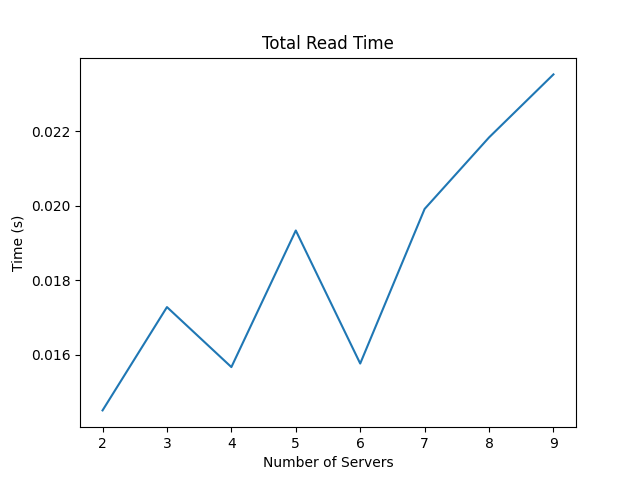
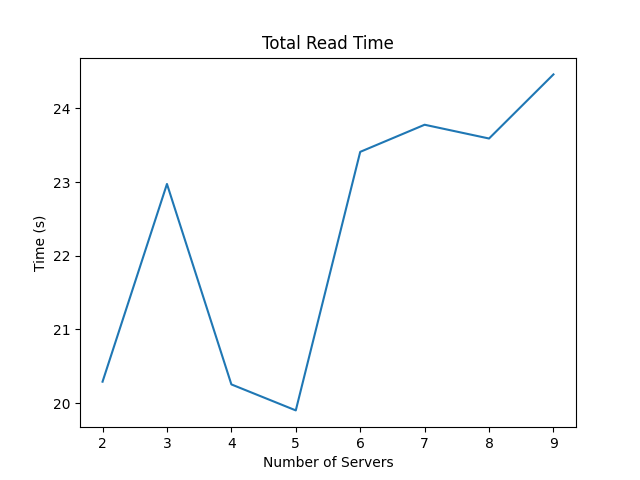
final commit

diff --git a/Assignment-2/Task-3/analysis.py b/Assignment-2/Task-3/analysis.py
@@ -25,7 +25,7 @@ def plot_line_chart(x_values, y_values, x_label, y_label, title, path):
 
 
 def launch_rw_requests():
-    shuffled_endpoints = ["/read"]*10 + ["/write"]*10
+    shuffled_endpoints = ["/read"]*10000 + ["/write"]*10000
     random.shuffle(shuffled_endpoints)
 
     read_time = []

diff --git a/Assignment-2/README.md b/Assignment-2/README.md
@@ -65,3 +65,18 @@
     ![A-2-Write Time](./Task-3/A2_write_time.png)
 
 ### Note - Average Read Time decreased in A2 in comparison to A1 whereas Average Write Time increased in A2 in comparison to A1 due to increase in the number of the shard replicas.
+
+
+### A-3: ncrease the number of Servers (to 10) by adding new servers and increase the number of shards (shard to 6, shard replicas to 8). Define the (init endpoint) configurations according to your choice. Report the write speed up for 10000 writes and read speed up for 10000 reads.
+
+![A3_total_read_time](./Task-3/A3_total_read_time.png)
+
+![A3_total_write_time](./Task-3/A3_total_write_time.png)
+
+![A3_mean_read_time](./Task-3/A3_mean_read_time.png)
+
+![A3_mean_write_time](./Task-3/A3_mean_write_time.png)
+
+![A3_error_read_time](./Task-3/A3_error_read_time.png)
+
+![A3_error_write_time](./Task-3/A3_error_write_time.png)
